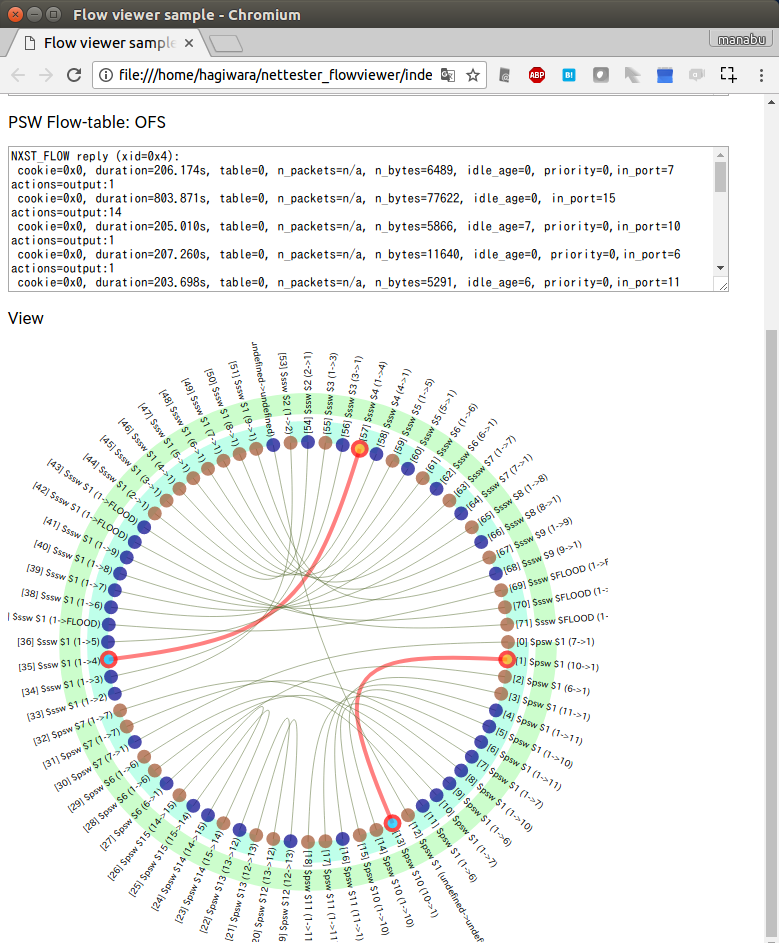
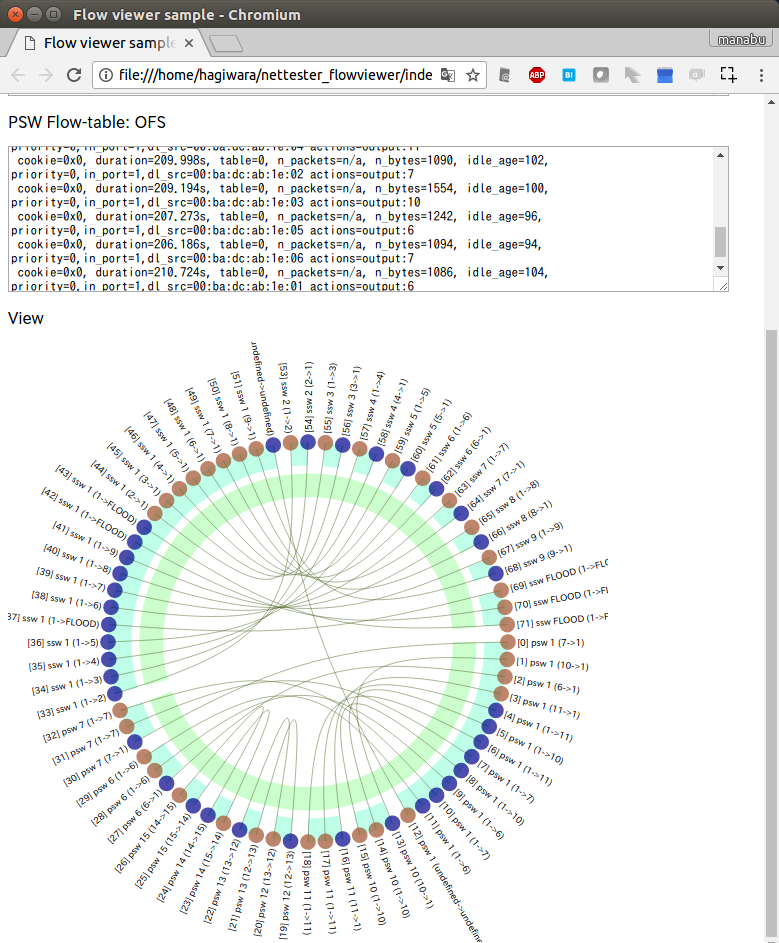
Fix layout.

diff --git a/flow_view.js b/flow_view.js
@@ -75,7 +75,7 @@ function draw_flow_data(flow_paths) {
     console.log(all_edges);
 
     var lradius = size / 3;
-    var cradius = lradius * Math.PI / all_edges.length * 0.8;
+    var cradius = lradius * Math.PI / all_edges.length * 0.9;
     var rad = d3.scalePoint()
         .domain(Object.keys(all_edges).concat(all_edges.length))
         .range([0, 2 * Math.PI]);
@@ -84,19 +84,20 @@ function draw_flow_data(flow_paths) {
         .range([0, 360]);
 
     function descr(d) {
-        return "[" + d.index + "] " + d.sw + " " + d.port
-        + " (" + d.flow.in_port + "->" + d.flow.output + ")";
+        var str = "[" + d.index + "] " + d.sw + " " + d.port
+            + " (" + d.flow.in_port + "->" + d.flow.output + ")";
+        return str.replace(/\$/g, "");
     }
 
     // draw arc
     // ref: Banded Arcs - bl.ocks.org
     // https://bl.ocks.org/mbostock/938288
     var port_arc = d3.arc()
-        .innerRadius(lradius)
-        .outerRadius(lradius + cradius*3);
+        .innerRadius(lradius - cradius*3)
+        .outerRadius(lradius);
     var sw_arc = d3.arc()
-        .innerRadius(lradius + cradius*4)
-        .outerRadius(lradius + cradius*7);
+        .innerRadius(lradius - cradius*7)
+        .outerRadius(lradius - cradius*4);
     var aaoff = Math.PI/2; // arc angle offset
     Object.keys(edge_table).forEach(function(sw) {
         var port_table = edge_table[sw];
